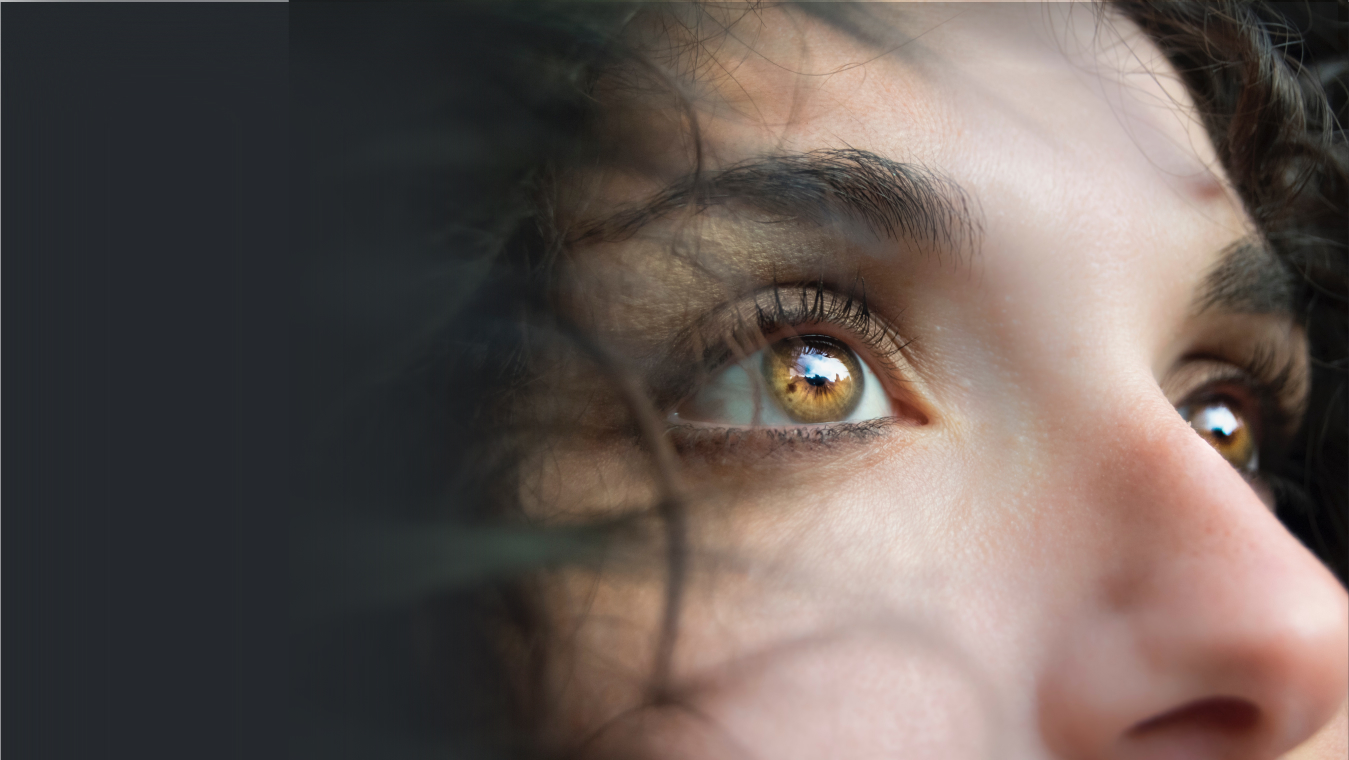
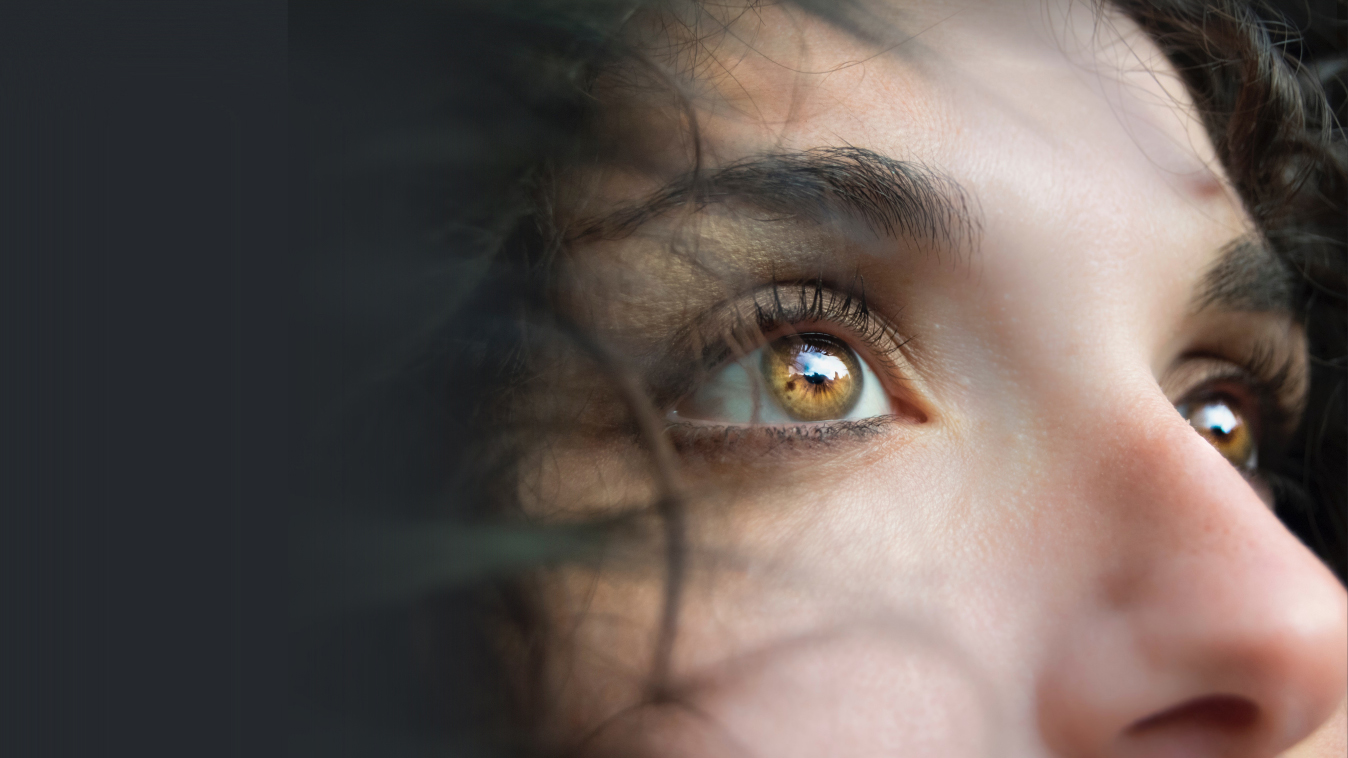
article support done

diff --git a/style.css b/style.css
@@ -1,1 +1,1 @@
-*{margin:0;-webkit-margin-before:0;margin-block-start:0;-webkit-margin-after:0;margin-block-end:0;padding:0;-webkit-padding-start:0;padding-inline-start:0;-webkit-padding-end:0;padding-inline-end:0;-webkit-transition:0.2s ease-in-out;transition:0.2s ease-in-out}html{font-size:0.45px;background:#25292D}.bold{font-weight:700}h1,h2,p,span,div{font-family:'Montserrat';color:white}.wrapper{max-width:1155px;width:100%;display:-webkit-box;display:-ms-flexbox;display:flex}header{display:-webkit-box;display:-ms-flexbox;display:flex;-webkit-box-align:center;-ms-flex-align:center;align-items:center;padding:20px;position:fixed;top:0;background-color:#00000000;z-index:5;width:100vw;-webkit-box-sizing:border-box;box-sizing:border-box}header .wrapper{display:-webkit-box;display:-ms-flexbox;display:flex;-webkit-box-orient:horizontal;-webkit-box-direction:normal;-ms-flex-direction:row;flex-direction:row;-webkit-box-pack:justify;-ms-flex-pack:justify;justify-content:space-between}header .logo{background-image:url("assets/Object.svg");background-size:contain;width:182px;height:60px}header .burger{margin-top:7px;position:relative;width:45px;height:35px;overflow:hidden}header .burger span{display:inline-block;width:45px;height:5px;background-color:#F5BF23;border-radius:10px;position:absolute}header .burger span:nth-of-type(1){top:0px;-webkit-transition-delay:0.1s;transition-delay:0.1s}header .burger span:nth-of-type(2){top:15px;-webkit-transition-delay:0.1s;transition-delay:0.1s}header .burger span:nth-of-type(3){top:30px;-webkit-transition-delay:0.1s;transition-delay:0.1s}header .burger span:nth-of-type(4){-webkit-transform:rotate(45deg);transform:rotate(45deg);bottom:-20px;left:40px}header .burger span:nth-of-type(5){-webkit-transform:rotate(135deg);transform:rotate(135deg);bottom:-20px;left:-40px}header .burger-active span:nth-of-type(1),header .burger-active span:nth-of-type(2),header .burger-active span:nth-of-type(3){-webkit-transform:scaleX(0);transform:scaleX(0);-webkit-transform-origin:center;transform-origin:center;top:15px}header .burger-active span:nth-of-type(4),header .burger-active span:nth-of-type(5){left:0;bottom:15px;-webkit-transition-delay:0.1s;transition-delay:0.1s}header .menu-wrap{position:absolute;z-index:3;background-color:#25292D;padding:20px 30px;left:0;top:0;-webkit-transform:translateY(-120vh);transform:translateY(-120vh);-webkit-transition:0.5s ease-in-out;transition:0.5s ease-in-out}header .menu-wrap ul{height:100vh;display:-webkit-box;display:-ms-flexbox;display:flex;-webkit-box-orient:vertical;-webkit-box-direction:normal;-ms-flex-direction:column;flex-direction:column;-webkit-box-align:center;-ms-flex-align:center;align-items:center}header .menu-wrap ul li{list-style-type:none;font-weight:500;font-size:12px;line-height:15px;text-transform:uppercase;padding:15px 0}header .menu-wrap ul li:nth-of-type(5){background-color:#F5BF23;border-radius:27.5px;color:#25292D;padding:20px}header .menu-translated{-webkit-transform:translateY(0px);transform:translateY(0px)}article:nth-of-type(1){padding:120px 20px 20px 20px;position:relative;background-image:url("assets/group4.jpg");background-size:cover}article:nth-of-type(1) .wrapper{-webkit-box-orient:vertical;-webkit-box-direction:normal;-ms-flex-direction:column;flex-direction:column}article:nth-of-type(1) h2{font-size:50rem;line-height:1.7;font-weight:200}article:nth-of-type(1) h2 span{font-size:90rem;line-height:0.94;position:relative;z-index:1}article:nth-of-type(1) h2 span::after{content:"";position:absolute;width:152px;height:35px;background-color:#F5BF23;bottom:-15px;left:-96px;z-index:-1}article:nth-of-type(1) p{margin-top:41px;font-weight:300;font-size:16px;line-height:1.25;max-width:523px}article:nth-of-type(1) .scroll-down{margin-top:120px;-ms-flex-item-align:center;align-self:center}article:nth-of-type(1) .scroll-down span{font-weight:300;font-size:10px;letter-spacing:2px;text-transform:uppercase;opacity:0.4}article:nth-of-type(1) .scroll-down .arrow-down{margin-top:13px;display:-webkit-box;display:-ms-flexbox;display:flex;-webkit-box-orient:vertical;-webkit-box-direction:normal;-ms-flex-direction:column;flex-direction:column}article:nth-of-type(1) .scroll-down .arrow-down svg{-ms-flex-item-align:center;align-self:center}
+*{margin:0;-webkit-margin-before:0;margin-block-start:0;-webkit-margin-after:0;margin-block-end:0;padding:0;-webkit-padding-start:0;padding-inline-start:0;-webkit-padding-end:0;padding-inline-end:0;-webkit-transition:0.2s ease-in-out;transition:0.2s ease-in-out}html{font-size:0.45px;background:#25292D}.bold{font-weight:700}h1,h2,p,span,div{font-family:'Montserrat';color:white}.wrapper{max-width:1155px;width:100%;display:-webkit-box;display:-ms-flexbox;display:flex}article{padding:0 20px}.button{width:200px;height:45px;border-radius:27.5px;display:-webkit-box;display:-ms-flexbox;display:flex;-webkit-box-orient:horizontal;-webkit-box-direction:normal;-ms-flex-direction:row;flex-direction:row;-webkit-box-pack:center;-ms-flex-pack:center;justify-content:center;-webkit-box-align:center;-ms-flex-align:center;align-items:center;background-color:#25292D}.button span{font-size:14px;line-height:1.25;font-weight:bold;color:#F5BF23;margin-right:8px}header{display:-webkit-box;display:-ms-flexbox;display:flex;-webkit-box-align:center;-ms-flex-align:center;align-items:center;padding:20px;position:fixed;top:0;background-color:#00000000;z-index:5;width:100vw;-webkit-box-sizing:border-box;box-sizing:border-box}header .wrapper{display:-webkit-box;display:-ms-flexbox;display:flex;-webkit-box-orient:horizontal;-webkit-box-direction:normal;-ms-flex-direction:row;flex-direction:row;-webkit-box-pack:justify;-ms-flex-pack:justify;justify-content:space-between}header .logo{background-image:url("assets/Object.svg");background-size:contain;width:182px;height:60px}header .burger{margin-top:7px;position:relative;width:45px;height:35px;overflow:hidden}header .burger span{display:inline-block;width:45px;height:5px;background-color:#F5BF23;border-radius:10px;position:absolute}header .burger span:nth-of-type(1){top:0px;-webkit-transition-delay:0.1s;transition-delay:0.1s}header .burger span:nth-of-type(2){top:15px;-webkit-transition-delay:0.1s;transition-delay:0.1s}header .burger span:nth-of-type(3){top:30px;-webkit-transition-delay:0.1s;transition-delay:0.1s}header .burger span:nth-of-type(4){-webkit-transform:rotate(45deg);transform:rotate(45deg);bottom:-20px;left:40px}header .burger span:nth-of-type(5){-webkit-transform:rotate(135deg);transform:rotate(135deg);bottom:-20px;left:-40px}header .burger-active span:nth-of-type(1),header .burger-active span:nth-of-type(2),header .burger-active span:nth-of-type(3){-webkit-transform:scaleX(0);transform:scaleX(0);-webkit-transform-origin:center;transform-origin:center;top:15px}header .burger-active span:nth-of-type(4),header .burger-active span:nth-of-type(5){left:0;bottom:15px;-webkit-transition-delay:0.1s;transition-delay:0.1s}header .menu-wrap{position:absolute;z-index:3;background-color:#25292D;padding:40px 20px;left:0;top:0;-webkit-transform:translateY(-120vh);transform:translateY(-120vh);-webkit-transition:0.5s ease-in-out;transition:0.5s ease-in-out}header .menu-wrap ul{height:100vh;display:-webkit-box;display:-ms-flexbox;display:flex;-webkit-box-orient:vertical;-webkit-box-direction:normal;-ms-flex-direction:column;flex-direction:column;-webkit-box-align:center;-ms-flex-align:center;align-items:center}header .menu-wrap ul li{list-style-type:none;font-weight:500;font-size:12px;line-height:15px;text-transform:uppercase;padding:20px 0}header .menu-wrap ul li:nth-of-type(5){background-color:#F5BF23;border-radius:27.5px;color:#25292D;padding:20px}header .menu-translated{-webkit-transform:translateY(0px);transform:translateY(0px)}article:nth-of-type(1){padding:140px 20px 20px 20px;position:relative;background-image:url("assets/group4.jpg");background-size:cover;background-origin:border-box}article:nth-of-type(1) .wrapper{-webkit-box-orient:vertical;-webkit-box-direction:normal;-ms-flex-direction:column;flex-direction:column}article:nth-of-type(1) h2{font-size:50rem;line-height:1.7;font-weight:200}article:nth-of-type(1) h2 span{font-size:90rem;line-height:0.94;position:relative;z-index:1}article:nth-of-type(1) h2 span::after{content:"";position:absolute;width:152px;height:35px;background-color:#F5BF23;bottom:-15px;left:-96px;z-index:-1}article:nth-of-type(1) p{margin-top:41px;font-weight:300;font-size:16px;line-height:1.25;max-width:523px}article:nth-of-type(1) .scroll-down{margin-top:100px;-ms-flex-item-align:center;align-self:center}article:nth-of-type(1) .scroll-down span{font-weight:300;font-size:10px;letter-spacing:2px;text-transform:uppercase;opacity:0.4}article:nth-of-type(1) .scroll-down .arrow-down{margin-top:13px;display:-webkit-box;display:-ms-flexbox;display:flex;-webkit-box-orient:vertical;-webkit-box-direction:normal;-ms-flex-direction:column;flex-direction:column}article:nth-of-type(1) .scroll-down .arrow-down svg{-ms-flex-item-align:center;align-self:center}article:nth-of-type(2){padding-top:90px}article:nth-of-type(2) .wrapper{-webkit-box-orient:vertical;-webkit-box-direction:normal;-ms-flex-direction:column;flex-direction:column;-webkit-box-align:center;-ms-flex-align:center;align-items:center}article:nth-of-type(2) .wrapper .support-heading{max-width:880px;margin-bottom:85px}article:nth-of-type(2) .wrapper .support-info{background-color:#F5BF23;max-width:676px;display:-webkit-box;display:-ms-flexbox;display:flex;-webkit-box-orient:vertical;-webkit-box-direction:normal;-ms-flex-direction:column;flex-direction:column;-webkit-box-align:start;-ms-flex-align:start;align-items:flex-start;padding:30px 10px 30px 20px}article:nth-of-type(2) .wrapper .support-info h2{text-align:left;line-height:1.218;color:#25292D}article:nth-of-type(2) .wrapper .support-info h2 span{font-size:55rem;color:#25292D}article:nth-of-type(2) h2{font-size:55rem;line-height:1;font-weight:200;text-align:center}article:nth-of-type(2) h2 span{font-size:70rem;line-height:1;font-weight:bold}article:nth-of-type(2) p{font-weight:300;font-size:16px;line-height:1.25;opacity:0.6;text-align:center;margin-top:27px}article:nth-of-type(2) .button{margin-top:38px}article:nth-of-type(2) .support-image{background-image:url("assets/Group1.jpg");background-size:cover;max-width:707px;max-height:747px;width:100%;height:100%;margin-top:20px;-webkit-box-shadow:-1px 1px 1px #1c1c1c;box-shadow:-1px 1px 1px #1c1c1c}

diff --git a/index.html b/index.html
@@ -54,18 +54,22 @@
 
     <article id="support">
         <div class="wrapper">
-            <div>
+            <div class="support-heading">
                 <h2>Who do we <span class="bold">support</span></h2>
                 <p>EED’s activities focus primarily on the European neighbourhood (the Eastern Partnership and the Middle East and North Africa regions) and aim to ensure, as far as possible, a geographical balance of engagement and funding between the Eastern and Southern neighbourhoods. In addition, some grants may be provided for relevant applications from countries in the area adjacent to the neighbourhood depending on needs, available funds, and political priorities. </p>
             </div>
-            <div>
-                <h2>EED has funded <span class="bold">over 378 initiatives</span> this far</h2>
+            <div class="support-info">
+                <h2>EED has funded <br><span class="bold">over 378 initiatives</span> <br>this far</h2>
                 <div class="button">
                     <span>Learn more</span>
-                    <div class="arrow-right"></div>
+                    <div class="arrow-right">
+                        <svg width="30" height="21" viewBox="0 0 30 21" fill="none" xmlns="http://www.w3.org/2000/svg">
+                        <path d="M19.8582 0.31185C19.4565 -0.10395 18.7878 -0.10395 18.372 0.31185C17.9703 0.713604 17.9703 1.38226 18.372 1.78307L25.9079 9.31899H1.04044C0.460752 9.31993 0 9.78068 0 10.3604C0 10.9401 0.460752 11.4158 1.04044 11.4158H25.9079L18.372 18.9377C17.9703 19.3535 17.9703 20.023 18.372 20.4239C18.7878 20.8397 19.4574 20.8397 19.8582 20.4239L29.1782 11.1039C29.594 10.7022 29.594 10.0335 29.1782 9.63271L19.8582 0.31185Z" fill="#F5BF23"/>
+                        </svg>
+                    </div>
                 </div>
             </div>
-            <div></div>
+            <div class="support-image"></div>
         </div>
     </article>
 

diff --git a/sass/_article2Support.scss b/sass/_article2Support.scss
@@ -1,0 +1,61 @@
+article:nth-of-type(2) {
+    padding-top: 90px;
+    .wrapper {
+        flex-direction: column;
+        align-items: center;
+        .support-heading {
+            max-width: 880px;
+            margin-bottom: 85px;
+        }
+        .support-info {
+            background-color: $yellow;
+            max-width: 676px;
+            display: flex;
+            flex-direction: column;
+            align-items: flex-start;
+            padding: 30px 10px 30px 20px;
+            h2 {
+                text-align: left;
+                line-height: 1.218;
+                color: $gray;
+                span {
+                    font-size: 55rem;
+                    color: $gray;
+                }
+            }
+        }
+    }
+    h2 {
+        font-size: 55rem;
+        line-height: 1;
+        font-weight: 200;
+        text-align: center;
+        span {
+            font-size: 70rem;
+            line-height: 1;
+            font-weight: bold;
+        }
+    }
+    p {
+        font-weight: 300;
+        font-size: 16px;
+        line-height: 1.25;
+        opacity: 0.6;
+        text-align: center;
+        margin-top: 27px;
+    }
+    .button {
+        margin-top: 38px;
+
+    }
+    .support-image {
+        background-image: url('assets/Group1.jpg');
+        background-size: cover;
+        max-width: 707px;
+        max-height: 747px;
+        width: 100%;
+        height: 100%;
+        margin-top: 20px;
+        box-shadow: -1px 1px 1px #1c1c1c;
+    }
+}

diff --git a/sass/_global.scss b/sass/_global.scss
@@ -1,3 +1,4 @@
+@import "colors";
 * {
     margin: 0;
     margin-block-start: 0;
@@ -23,4 +24,24 @@ h1, h2, p, span, div{
     max-width:  1155px;
     width: 100%;
     display: flex;
+}
+article {
+    padding: 0 20px;
+}
+.button {
+     width: 200px;
+     height: 45px;
+     border-radius: 27.5px;
+     display: flex;
+     flex-direction: row;
+     justify-content:center;
+     align-items: center;
+     background-color: $gray;
+     span {
+         font-size: 14px;
+         line-height: 1.25;
+         font-weight: bold;
+         color: $yellow;
+         margin-right: 8px;
+     }
 }

diff --git a/sass/_header.scss b/sass/_header.scss
@@ -75,7 +75,7 @@ header {
         position: absolute;
         z-index: 3;
         background-color: $gray;
-        padding: 20px 30px;
+        padding: 40px 20px;
         left: 0;
         top: 0;
         transform:translateY(-120vh);
@@ -91,7 +91,7 @@ header {
                 font-size: 12px;
                 line-height: 15px;
                 text-transform: uppercase;
-                padding: 15px 0;
+                padding: 20px 0;
             }
             li:nth-of-type(5){
                 background-color: $yellow;

diff --git a/sass/_article1About.scss b/sass/_article1About.scss
@@ -1,8 +1,9 @@
 article:nth-of-type(1) {
-    padding: 120px 20px 20px 20px;
+    padding: 140px 20px 20px 20px;
     position: relative;
     background-image:url('assets/group4.jpg');
     background-size: cover;
+    background-origin: border-box;
     .wrapper {
         flex-direction: column;
     }
@@ -35,7 +36,7 @@ article:nth-of-type(1) {
         max-width: 523px; 
     }
     .scroll-down {
-        margin-top: 120px;
+        margin-top: 100px;
         align-self: center;
         span {
             font-weight: 300;
